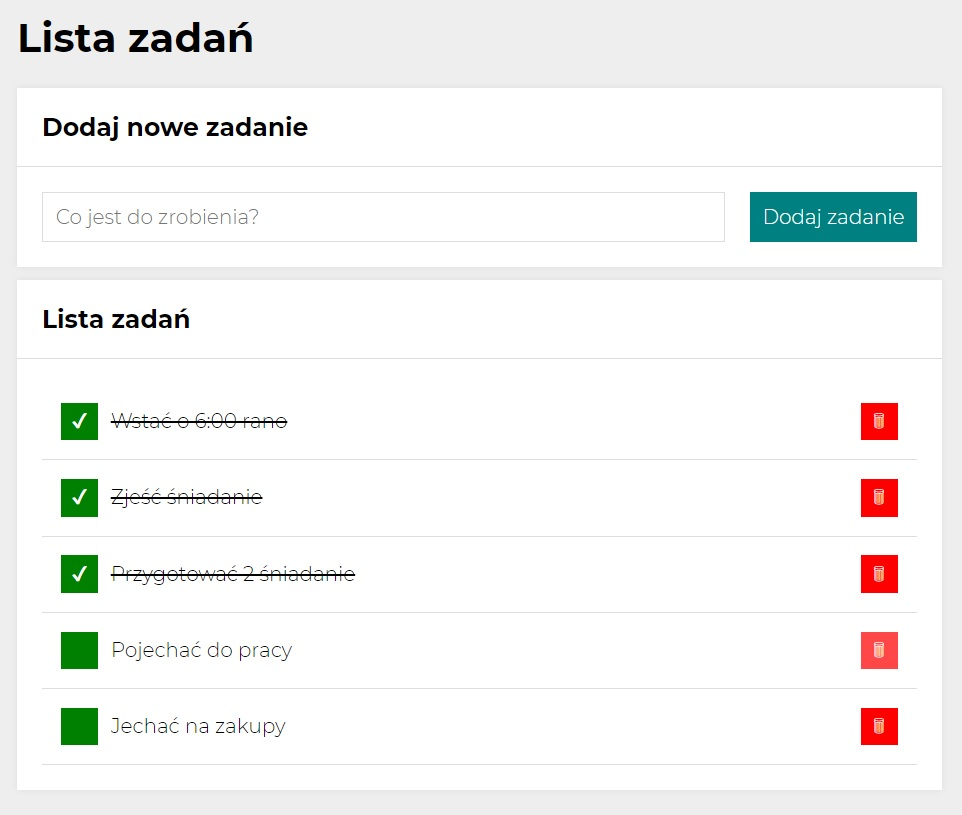
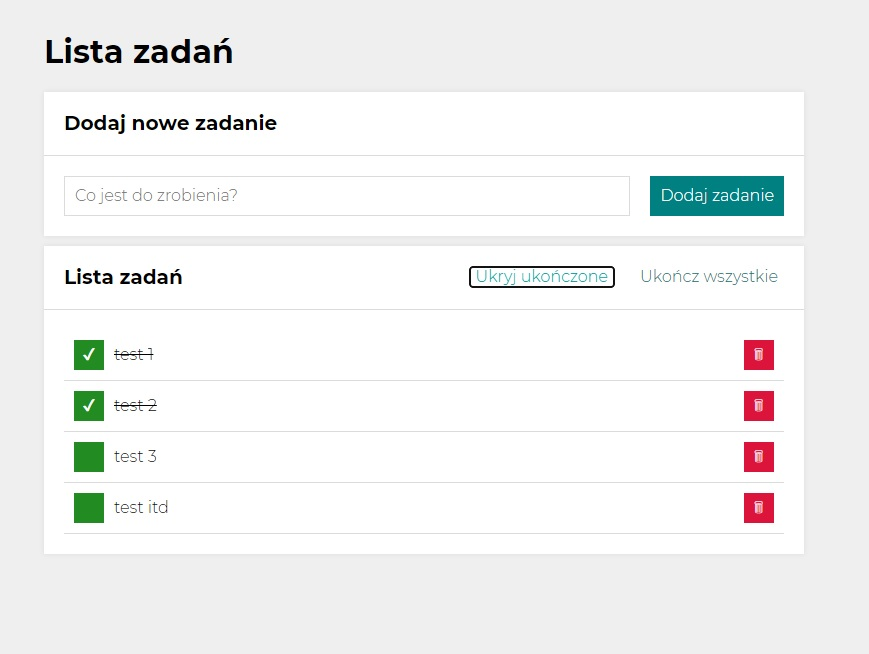
update readme.md

diff --git a/README.md b/README.md
@@ -13,6 +13,8 @@ It is an application for creating a to-do list
 1. Enter the various tasks to be performed in the box
 2. When you complete the task, you can click the green icon and mark it as completed
 3. You can also delete a given task by clicking on the red icon
+4. You can hide selected tasks by clicking "Ukryj ukończone"
+5. You can select them all at once by clicking: "Ukończ wszystkie"
 
 Thanks to the use of Local Storage, the tasks did not get deleted after restarting or refreshing the browser.
 You can approve tasks by clicking Enter.
@@ -24,7 +26,7 @@ The application works correctly on high resolutions and on small ones.
 
 - HTML
 - CSS (FLEX, GRID, Media queries)
-- JavaScript (React)
+- JavaScript (React - Redux)
 - Styled Components
 - Custom hooks
 
